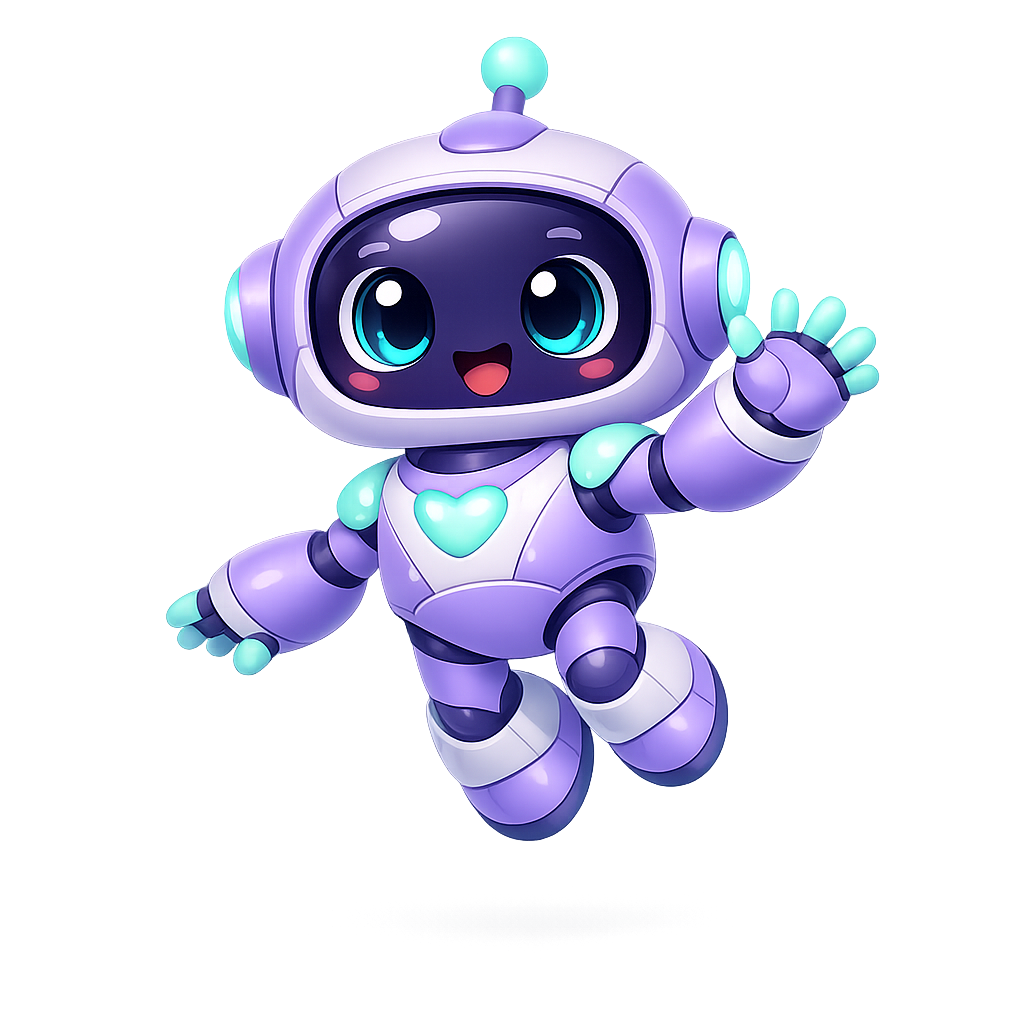
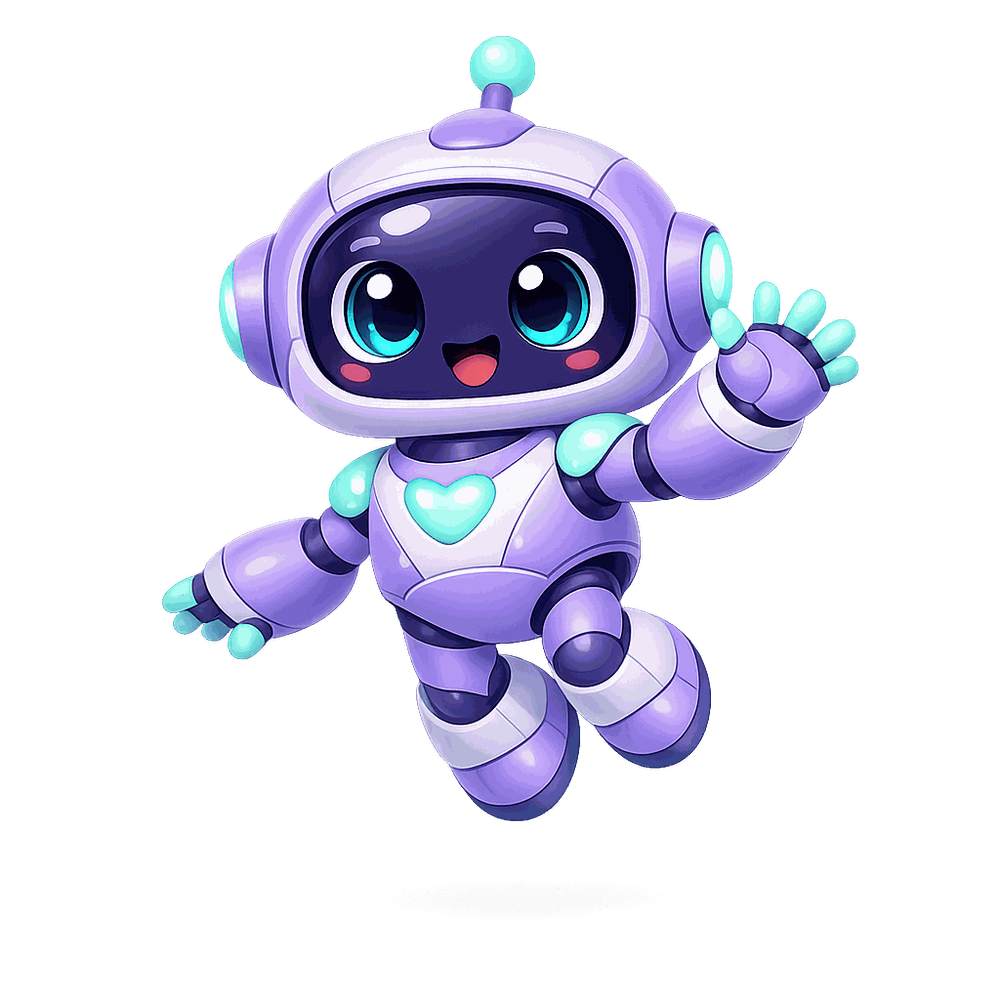
Arbeite Parkplatz ab + schlanker moderner Footer
Parkplatz erledigt:
- Stale Kommentare in projects.yml entfernt
- KI-Entdecker-Bild von 1,6 MB auf 100 KB komprimiert (1000px, 256c)
- README/ANLEITUNG/SCHNELLSTART: veralteten Branch-Name auf `main`
  geändert, veraltete Beispiel-Projekte generisch formuliert

Footer neu:
- Eine Zeile statt 4 stapelnde Sektionen
- Copyright links, Social-Icons mittig, Impressum/Datenschutz rechts
- Mobile: flex-column, ca. 130 px statt ~700 px Höhe
- Reduziert padding von spacing-16 auf spacing-6

Betrifft: _data/projects.yml, assets/images/projects/ki-entdecker-desktop.png,
_layouts/default.html, assets/css/style.css, README.md, ANLEITUNG.md,
SCHNELLSTART.md

Changed region(s): [[0.341, 0.341, 0.403, 0.372], [0.465, 0.341, 0.496, 0.372]]

diff --git a/_layouts/default.html b/_layouts/default.html
@@ -111,47 +111,20 @@
 
     <!-- Footer -->
     <footer class="footer">
-        <div class="container">
-            <div class="footer-content">
-                <div class="footer-section">
-                    <h3>{{ site.author }}</h3>
-                    <p>Developer, Innovator & Creator</p>
-                </div>
-                <div class="footer-section">
-                    <h4>Social</h4>
-                    <a href="https://github.com/BEKO2210" target="_blank">
-                        <i class="fab fa-github"></i> GitHub
-                    </a>
-                    <a href="https://x.com/XxBeko88xX" target="_blank">
-                        <i class="fab fa-x-twitter"></i> X (Twitter)
-                    </a>
-                    <a href="https://huggingface.co/Beko2210" target="_blank">
-                        <i class="fas fa-face-smile"></i> HuggingFace
-                    </a>
-                    <a href="https://www.instagram.com/_b_to_the_kiss_" target="_blank">
-                        <i class="fab fa-instagram"></i> Instagram
-                    </a>
-                    <a href="https://www.facebook.com/share/1DGo4F1oaF/" target="_blank">
-                        <i class="fab fa-facebook"></i> Facebook
-                    </a>
-                </div>
-                <div class="footer-section">
-                    <h4>Built with</h4>
-                    <p>Jekyll · GitHub Pages · Love ❤</p>
-                </div>
-                <div class="footer-section">
-                    <h4>Legal</h4>
-                    <a href="{{ '/impressum.html' | relative_url }}">
-                        <i class="fas fa-info-circle"></i> Impressum
-                    </a>
-                    <a href="{{ '/datenschutz.html' | relative_url }}">
-                        <i class="fas fa-shield-alt"></i> Datenschutz
-                    </a>
-                </div>
-            </div>
-            <div class="footer-bottom">
-                <p>&copy; {{ 'now' | date: "%Y" }} {{ site.author }}. All rights reserved.</p>
-            </div>
+        <div class="container footer-inner">
+            <p class="footer-copy">&copy; {{ 'now' | date: "%Y" }} {{ site.author }}</p>
+            <nav class="footer-social" aria-label="Social">
+                <a href="https://github.com/BEKO2210" target="_blank" rel="noopener" aria-label="GitHub" title="GitHub"><i class="fab fa-github"></i></a>
+                <a href="https://x.com/XxBeko88xX" target="_blank" rel="noopener" aria-label="X" title="X"><i class="fab fa-x-twitter"></i></a>
+                <a href="https://huggingface.co/Beko2210" target="_blank" rel="noopener" aria-label="HuggingFace" title="HuggingFace"><i class="fas fa-face-smile"></i></a>
+                <a href="https://www.instagram.com/_b_to_the_kiss_" target="_blank" rel="noopener" aria-label="Instagram" title="Instagram"><i class="fab fa-instagram"></i></a>
+                <a href="https://www.facebook.com/share/1DGo4F1oaF/" target="_blank" rel="noopener" aria-label="Facebook" title="Facebook"><i class="fab fa-facebook"></i></a>
+            </nav>
+            <nav class="footer-legal" aria-label="Rechtliches">
+                <a href="{{ '/impressum.html' | relative_url }}">Impressum</a>
+                <span class="footer-dot" aria-hidden="true">·</span>
+                <a href="{{ '/datenschutz.html' | relative_url }}">Datenschutz</a>
+            </nav>
         </div>
     </footer>
 

diff --git a/assets/css/style.css b/assets/css/style.css
@@ -1175,47 +1175,59 @@ section {
 /* === FOOTER === */
 .footer {
     background: var(--color-bg-secondary);
-    padding: var(--spacing-16) 0 var(--spacing-6);
+    padding: var(--spacing-6) 0;
     border-top: 1px solid var(--color-border);
-}
-
-.footer-content {
-    display: grid;
-    grid-template-columns: repeat(auto-fit, minmax(250px, 1fr));
-    gap: var(--spacing-8);
-    margin-bottom: var(--spacing-8);
-}
-
-.footer-section h3,
-.footer-section h4 {
-    margin-bottom: var(--spacing-4);
-    font-size: var(--text-lg);
-    font-weight: 600;
-}
-
-.footer-section p,
-.footer-section a {
-    color: var(--color-text-secondary);
     font-size: var(--text-sm);
-    line-height: 1.7;
 }
 
-.footer-section a {
-    display: block;
-    margin-bottom: var(--spacing-2);
+.footer-inner {
+    display: flex;
+    flex-wrap: wrap;
+    align-items: center;
+    justify-content: space-between;
+    gap: var(--spacing-4);
+}
+
+.footer-copy {
+    margin: 0;
+    color: var(--color-text-tertiary);
+}
+
+.footer-social {
+    display: flex;
+    gap: var(--spacing-4);
+}
+
+.footer-social a {
+    color: var(--color-text-secondary);
+    font-size: var(--text-base);
+    line-height: 1;
+    transition: color var(--transition), transform var(--transition);
+}
+
+.footer-social a:hover {
+    color: var(--color-primary);
+    transform: translateY(-2px);
+}
+
+.footer-legal {
+    display: flex;
+    align-items: center;
+    gap: var(--spacing-2);
+    color: var(--color-text-tertiary);
+}
+
+.footer-legal a {
+    color: inherit;
     transition: color var(--transition);
 }
 
-.footer-section a:hover {
+.footer-legal a:hover {
     color: var(--color-primary);
 }
 
-.footer-bottom {
-    text-align: center;
-    padding-top: var(--spacing-6);
-    border-top: 1px solid var(--color-border);
-    color: var(--color-text-tertiary);
-    font-size: var(--text-sm);
+.footer-dot {
+    opacity: 0.5;
 }
 
 /* === ANIMATIONS === */
@@ -1279,8 +1291,9 @@ section {
         grid-template-columns: 1fr;
     }
 
-    .footer-content {
-        grid-template-columns: 1fr;
+    .footer-inner {
+        flex-direction: column;
+        gap: var(--spacing-3);
         text-align: center;
     }
 }

diff --git a/ANLEITUNG.md b/ANLEITUNG.md
@@ -30,7 +30,7 @@ Jetzt siehst du die GitHub Pages Einstellungen:
 - **Source**: Lass "Deploy from a branch" ausgewählt
 - **Branch**: Hier ist wichtig!
   - Klicke auf das Dropdown (steht wahrscheinlich "None")
-  - Wähle **`claude/jekyll-portfolio-setup-Pid7B`** aus
+  - Wähle **`main`** aus
   - Bei "Folder" wähle **`/ (root)`**
   - Klicke auf **"Save"**
 
@@ -58,7 +58,7 @@ https://BEKO2210.github.io/My-table-of-contents-/
 Deine Portfolio-Seite mit:
 - ✨ Modernem Design mit Gradient-Effekten
 - 🚀 Hero-Section mit deinem Namen
-- 📁 3 Beispiel-Projekte (K.Ai Modell, Songtexte App, Portfolio)
+- 📁 Deine Projekte aus `_data/projects.yml`
 - 📊 Statistik-Section
 - 💬 Kontakt-Bereich
 
@@ -85,7 +85,7 @@ Deine Portfolio-Seite mit:
 ## ❓ Probleme?
 
 ### "Ich finde den Branch nicht"
-- Der Branch heißt: `claude/jekyll-portfolio-setup-Pid7B`
+- Der Branch heißt: `main`
 - Er sollte im Dropdown sichtbar sein
 
 ### "Die Seite zeigt 404"

diff --git a/SCHNELLSTART.md b/SCHNELLSTART.md
@@ -6,7 +6,7 @@
 2. **Klicke:** Settings (oben rechts)
 3. **Klicke:** Pages (links in der Sidebar)
 4. **Wähle aus:**
-   - Branch: `claude/jekyll-portfolio-setup-Pid7B`
+   - Branch: `main`
    - Folder: `/ (root)`
 5. **Klicke:** Save
 6. **Warte:** 2-3 Minuten
@@ -22,7 +22,7 @@ https://BEKO2210.github.io/My-table-of-contents-/
 
 ## 🚀 SCHRITT 2: Dein erstes Projekt hinzufügen
 
-1. **Öffne:** https://github.com/BEKO2210/My-table-of-contents-/blob/claude/jekyll-portfolio-setup-Pid7B/_data/projects.yml
+1. **Öffne:** https://github.com/BEKO2210/My-table-of-contents-/blob/main/_data/projects.yml
 2. **Klicke:** Stift-Symbol (Edit)
 3. **Füge hinzu** (am Ende der Datei):
 
@@ -99,7 +99,7 @@ Andere Farben ausprobieren:
 → Warte 3 Minuten und aktualisiere
 
 **Branch nicht gefunden?**
-→ Nutze genau: `claude/jekyll-portfolio-setup-Pid7B`
+→ Nutze genau: `main`
 
 **Änderungen nicht sichtbar?**
 → Warte 1-2 Minuten nach dem Commit

diff --git a/README.md b/README.md
@@ -444,7 +444,7 @@ Weitere Checks:
 - Prüfe ob GitHub Pages in den Settings aktiviert ist
 - Warte 1-2 Minuten nach dem Push (Build-Zeit)
 - Prüfe die Actions-Tab für Build-Errors
-- Branch muss korrekt sein (claude/jekyll-portfolio-setup-Pid7B)
+- Branch muss korrekt sein (`main`)
 
 ## 📄 Lizenz
 
